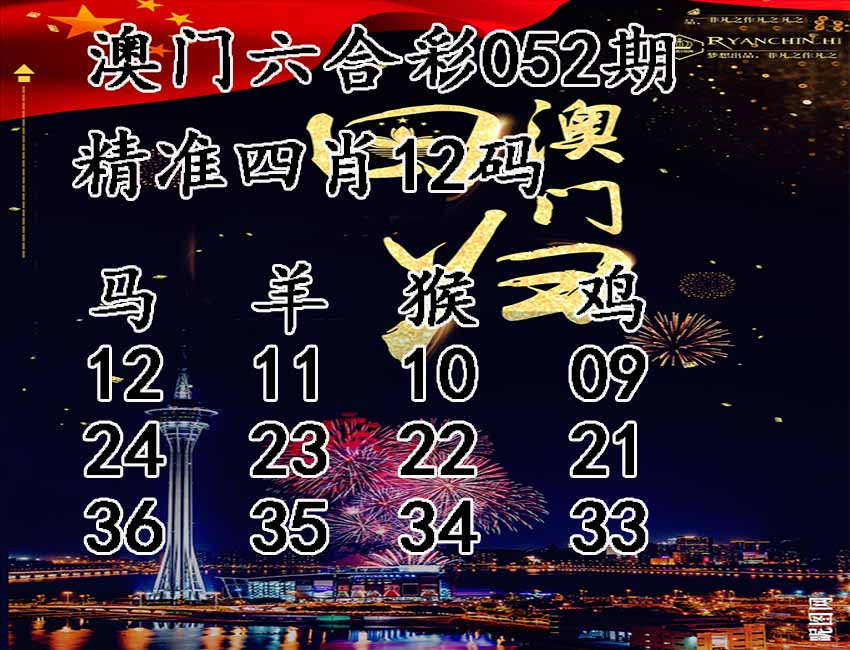
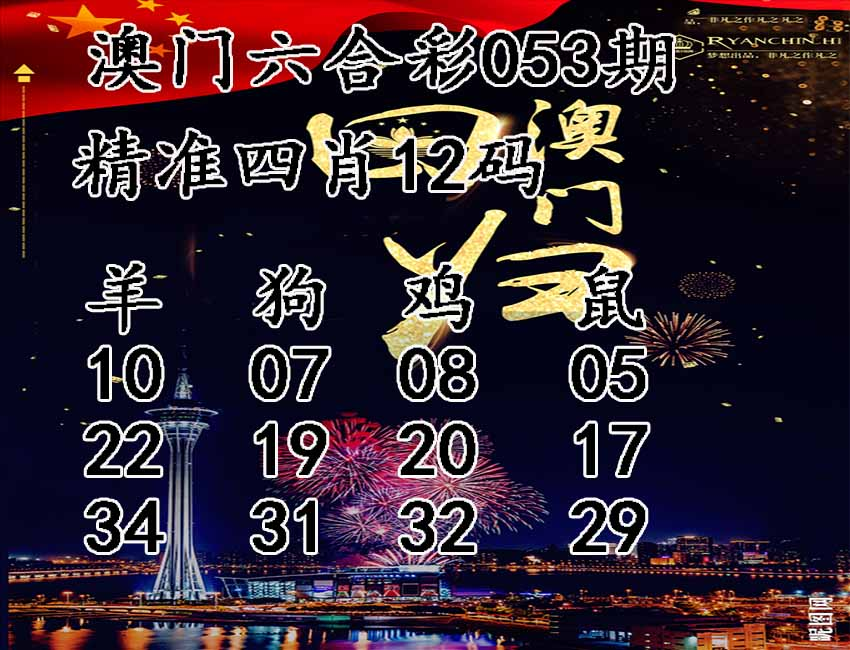
Update:  2025.02.22 13:20:32

diff --git a/Script/Src/xjw/杀两肖图.js b/Script/Src/xjw/杀两肖图.js
@@ -72,9 +72,9 @@ document.writeln("				<tr style=\'box-sizing: border-box;\'>");
 document.writeln("					<td height=\'40\' style=\'box-sizing: border-box;\'>");
 document.writeln("			<p align=\'center\' style=\'box-sizing: border-box; padding: 0px; margin: 0px;\'>");
 document.writeln("			<font size=\'4\' style=\'margin: 0px; padding: 0px;\'>");
-document.writeln("			053期玄机网禁两肖<font color=\'#FF0000\'>【更新中】</font>特开<font color=\'#0000FF\'>？00</font>准<br>");
-document.writeln("			053期澳门杀两肖图<font color=\'#FF0000\'>【更新中】</font>特开<font color=\'#0000FF\'>？00</font>准<br>");
-document.writeln("			053期澳门图库禁肖<font color=\'#FF0000\'>【更新中】</font>特开<font color=\'#0000FF\'>？00</font>准</font></font></p></td>");
+document.writeln("			053期玄机网禁两肖<font color=\'#FF0000\'>【鼠牛】</font>特开<font color=\'#0000FF\'>？00</font>准<br>");
+document.writeln("			053期澳门杀两肖图<font color=\'#FF0000\'>【鸡猪】</font>特开<font color=\'#0000FF\'>？00</font>准<br>");
+document.writeln("			053期澳门图库禁肖<font color=\'#FF0000\'>【鸡猪】</font>特开<font color=\'#0000FF\'>？00</font>准</font></font></p></td>");
 document.writeln("		</tr>");
 document.writeln("<!--结束-->	");
 document.writeln("		");
